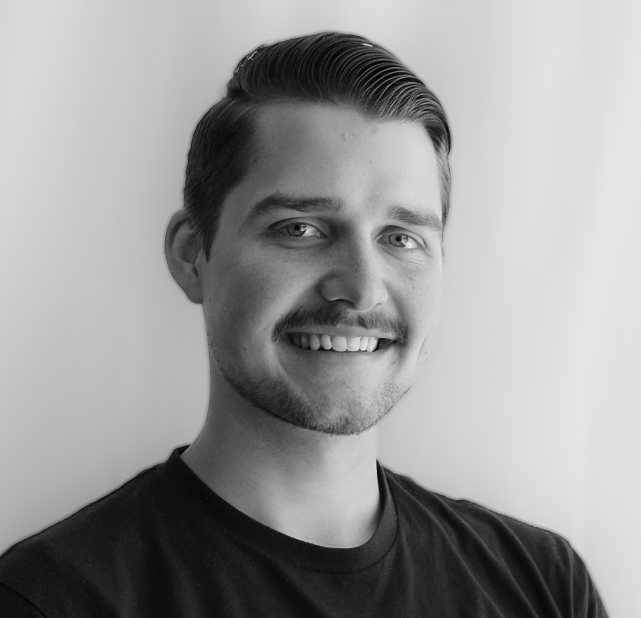
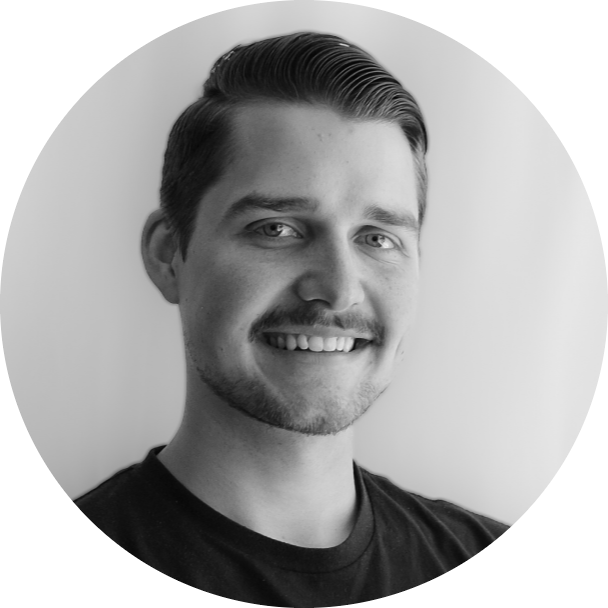
lol

diff --git a/profile/README.md b/profile/README.md
@@ -1,20 +1,6 @@
-<div style="padding: 40px 40px 40px 40px;">
 <img src="https://github.com/Zen-Payments/.github/blob/main/photos/logo.svg?raw=true" alt="Zen Payments Logo" style="display: block; margin: 0 auto;">
-  <div style="padding: 40px">
-  <hr style="border-color: black;">
-  <h2>Contributors</h2>
-  <br>
-    <div style="display: flex; justify-content: space-between; align-items: center;">
-      <div style="flex: 0 0 48%; text-align: center;">
-        <img src="https://github.com/Zen-Payments/.github/blob/main/photos/nick.jpg?raw=true" width=200 height=200 alt="Nicolas Child Headshot" style="border-radius: 50%; width: 200px; height: 200px; object-fit: cover;"/>
-        <h2>Backend Developer</h2>
-        <h3>Nicolas Child</h3>
-      </div>
-      <div style="flex: 0 0 48%; text-align: center;">
-        <img src="https://github.com/Zen-Payments/.github/blob/main/photos/wyatt.png?raw=true" width=200 height=200 alt="Wyatt Garcia Headshot" style="border-radius: 50%; width: 200px; height: 200px; object-fit: cover;">
-        <h2>Front End Developer</h2>
-        <h3>Wyatt Garcia</h3>
-      </div>
-    </div>
-  </div>
-</div>
+
+Nicolas Child             |  Wyatt Garcia
+:-------------------------:|:-------------------------:
+![](https://github.com/Zen-Payments/.github/blob/main/photos/nick.png?raw=true)  |  ![](https://github.com/Zen-Payments/.github/blob/main/photos/wyatt.png?raw=true)
+
